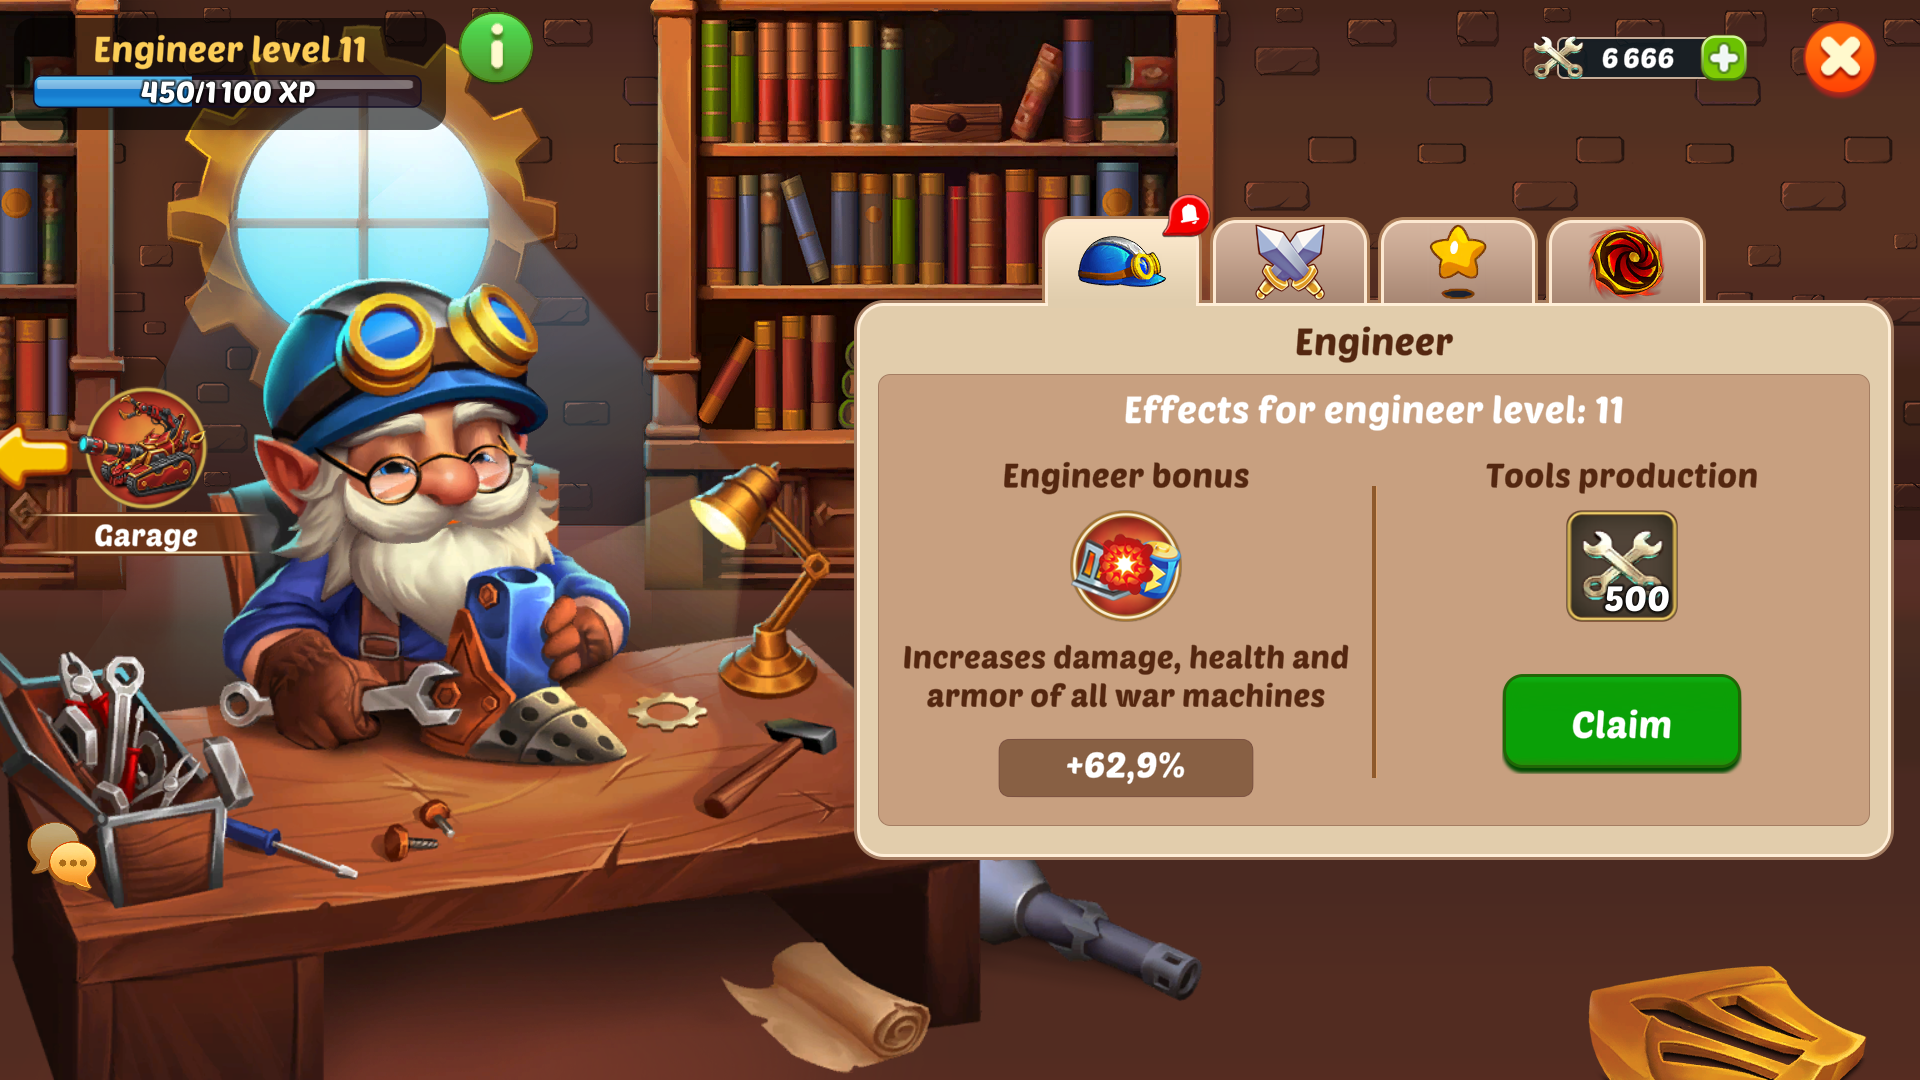
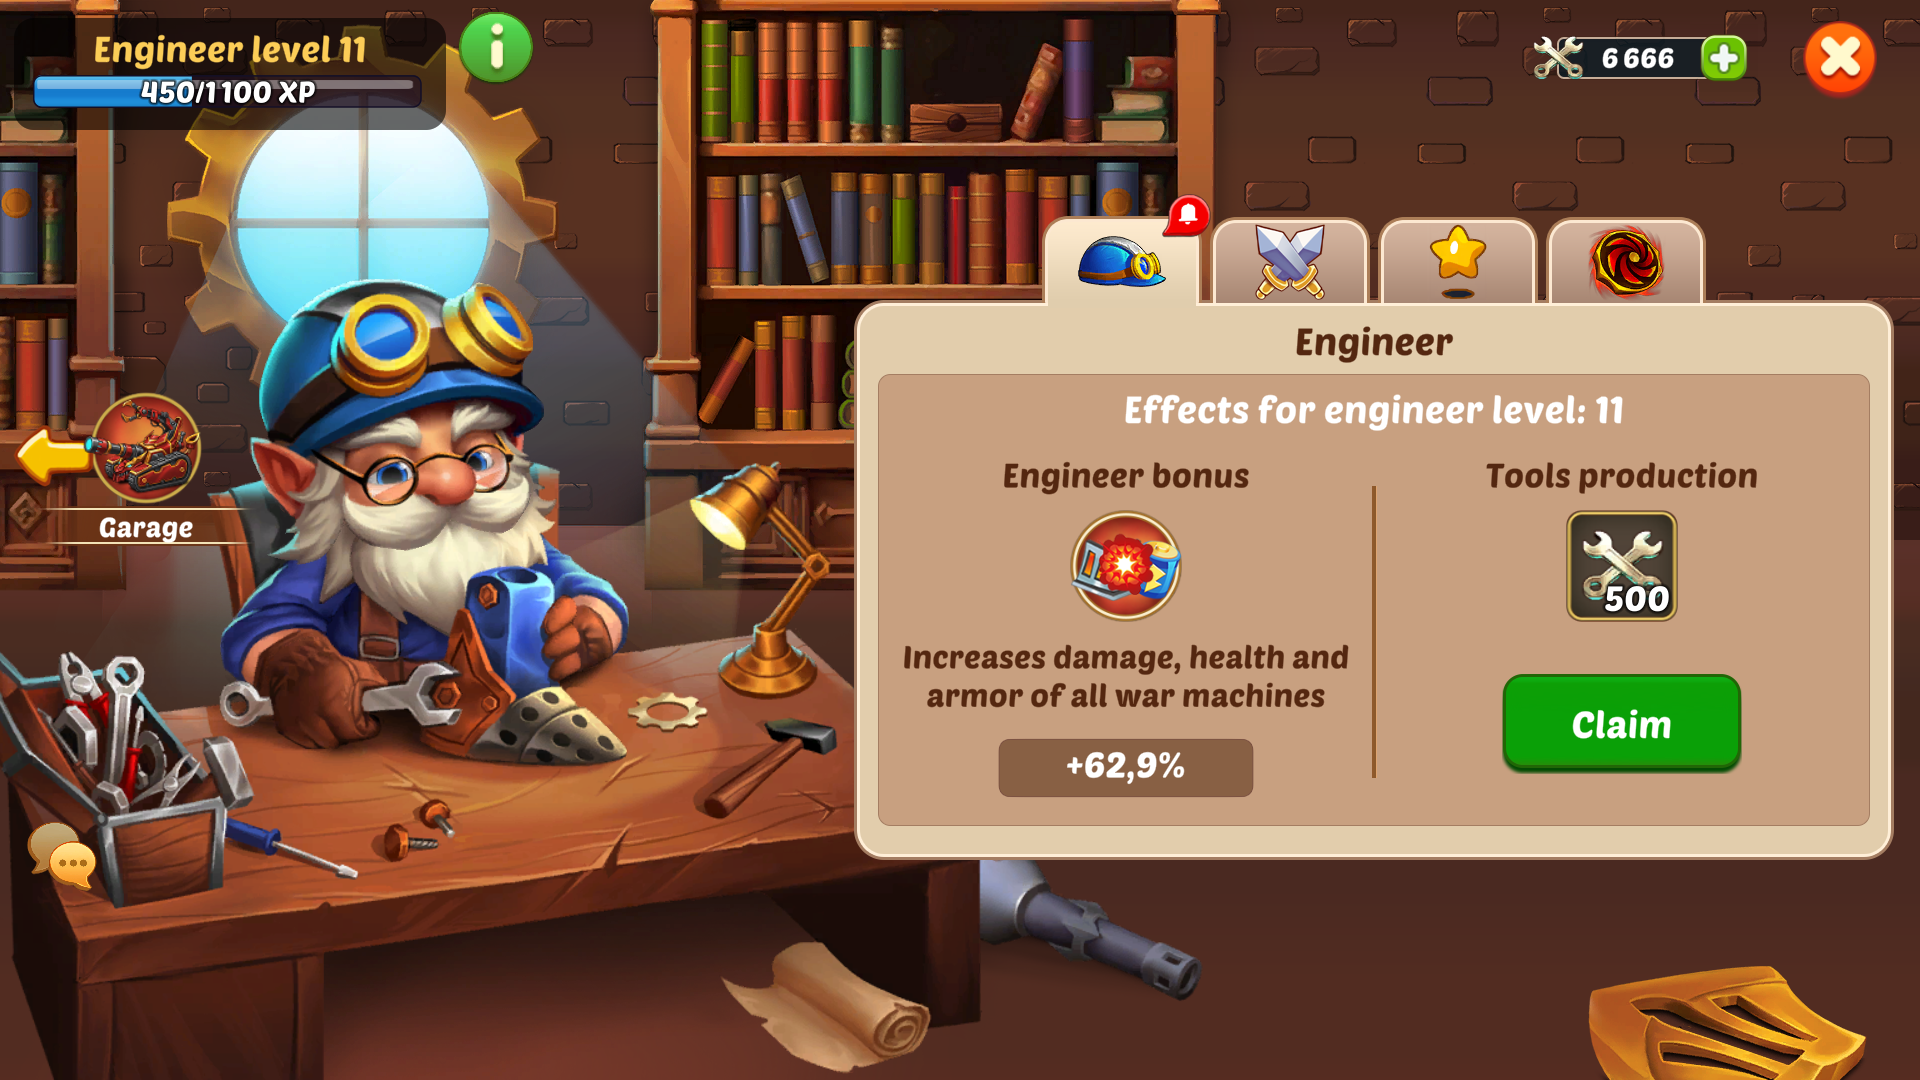
Change a plugin's value
BotMaker-Origin: safety

Changed region(s): [[0.0, 0.2444, 0.3125, 0.6111], [0.3125, 0.55, 0.3438, 0.6111], [0.125, 0.55, 0.1562, 0.5806]]

diff --git a/src/main/java/com/firestone/plugins/sdk/Screens.java b/src/main/java/com/firestone/plugins/sdk/Screens.java
@@ -12,6 +12,7 @@ import com.botmaker.sdk.api.screens.Kind;
 import com.botmaker.sdk.api.screens.Reached;
 import com.botmaker.sdk.api.screens.Variant;
 import com.botmaker.sdk.api.screens.State;
+import com.botmaker.sdk.api.geometry.Point;
 
 /**
  * Values com.botmaker.sdk keeps in step with its own windows.
@@ -21,9 +22,7 @@ import com.botmaker.sdk.api.screens.State;
 @SdkValue(SdkValue.Id.SCREEN_MAP)
 public final class Screens {
     public static final GameScreen OFFLINE_PROGRESS = GameScreen.named("Offline progress").marker(Pictures.OFFLINE_PROGRESS_TITLE)
-            .back(Input.click(new ImageTemplate("src/main/resources/images/claim_offline.png")
-                    .at(new Rect(895, 905, 130, 50)).tags(List.of(Tags.POPUPS))))
-            .popup();
+            .back(Input.click(Pictures.CLAIM_OFFLINE)).popup().at(new Point(0, 2394));
     public static final GameScreen HOME = GameScreen.named("Home").marker(Pictures.TOWN_HOME).inputs(List.of(Input.click(Pictures.TAVERN_HOME),
             Input.click(Pictures.ARENA_HOME), Input.click(Pictures.ENGINEER_HOME), Input.click(Pictures.CAMPAIGN_HOME),
             Input.click(Pictures.WAR_MACHINES_HOME), Input.click(Pictures.MAIL_HOME), Input.click(Pictures.CHAT_MAP),
@@ -35,7 +34,8 @@ public final class Screens {
             Input.click(Pictures.SCROLL_BOOT_HOME).sometimes(), Input.click(Pictures.LIBRARY_HOME).sometimes(),
             Input.click(Pictures.GUARDIANS_HOME).sometimes(),
             Input.click(Pictures.AUTO_ABILITIES_HOME).did(Did.IN_PLACE), Input.click(Pictures.AVATAR_HOME),
-            Input.click(Pictures.PREV_STAGE_HOME).did(Did.IN_PLACE), Input.click(Pictures.SETTINGS_HOME)));
+            Input.click(Pictures.PREV_STAGE_HOME).did(Did.IN_PLACE), Input.click(Pictures.SETTINGS_HOME)))
+            .at(new Point(0, 1326));
     public static final GameScreen TAVERN = GameScreen.named("Tavern").marker(Pictures.TAVERN_LUCK_TITLE).from(Way.of(Screens.HOME,Input.click(Pictures.TAVERN_HOME))).back(Input.click(Pictures.CLOSE_TOWN)).inputs(List.of(Input.click(Pictures.INFO_LUCK_TAVERN),Input.click(Pictures.ARTIFACTS_TAVERN),Input.click(Pictures.SACRED_CARDS_TAVERN).did(Did.IN_PLACE),Input.click(Pictures.SPEED_TAVERN).did(Did.IN_PLACE),Input.click(Pictures.BAG_TAVERN),Input.click(Pictures.CHAT_TAVERN),Input.click(Pictures.WHEEL_TAVERN).did(Did.IN_PLACE),Input.click(Pictures.DECK_TAVERN).did(Did.IN_PLACE),Input.click(Pictures.PLAY_TAVERN).did(Did.IN_PLACE),Input.click(Pictures.MANUAL_TAVERN).did(Did.IN_PLACE),Input.click(Pictures.MARKET_TAVERN),Input.click(Pictures.INFO_MAP),Input.click(Pictures.GEMS_PLUS_MAP).never("spends gems"),Input.click(Pictures.CARD_TAVERN).did(Did.IN_PLACE).sometimes())).notes("""
                     Town › Tavern opens a chooser: Tavern or Scarab's game (tavern_choice_town = the Tavern card).
                     Town's buildings carry a red bell badge (badge_town) when something is ready; badges nest (Tavern → Market).
@@ -48,74 +48,85 @@ public final class Screens {
                     Bag: reward table per luck level. i buttons: help. Luck bar: luck level from plays.
                     Escape from the Tavern goes straight back to Town.
                     Gamer daily quest = 10 tavern plays.\
-                    """).reached(Reached.SURVEYED);
+                    """).reached(Reached.SURVEYED).at(new Point(340,389));
     public static final GameScreen INFO_LUCK = GameScreen.named("Info luck").marker(Pictures.TOTAL_BONUSES_INFO_LUCK)
             .from(Way.of(Screens.TAVERN, Input.click(Pictures.INFO_LUCK_TAVERN)))
-            .back(Input.click(Pictures.CLOSE_INFO_LUCK));
+            .back(Input.click(Pictures.CLOSE_INFO_LUCK)).at(new Point(680, 0));
     public static final GameScreen INFO_MAP = GameScreen.named("Info map").marker(Pictures.HOW_TO_PLAY_TAVERN)
             .from(Way.of(Screens.TAVERN, Input.click(Pictures.INFO_MAP))).back(Input.click(Pictures.CLOSE_HELP_TAVERN))
-            .inputs(List.of(Input.scroll(Pictures.HELP_TEXT_TAVERN, -10).did(Did.IN_PLACE).kind(Kind.INFO)));
+            .inputs(List.of(Input.scroll(Pictures.HELP_TEXT_TAVERN, -10).did(Did.IN_PLACE).kind(Kind.INFO)))
+            .at(new Point(680, 103));
     public static final GameScreen ARTIFACTS = GameScreen.named("Artifacts").marker(Pictures.ARTIFACTS_TITLE)
             .from(Way.of(Screens.TAVERN, Input.click(Pictures.ARTIFACTS_TAVERN))).back(Input.click(Pictures.CLOSE_TOWN))
             .inputs(List.of(Input.click(Pictures.UPGRADE_ARTIFACTS), Input.click(Pictures.RARITY_ARTIFACTS),
                     Input.click(Pictures.ARTIFACT_CELL).did(Did.IN_PLACE),
-                    Input.scroll(Pictures.ARTIFACTS_GRID, -10).did(Did.IN_PLACE)));
+                    Input.scroll(Pictures.ARTIFACTS_GRID, -10).did(Did.IN_PLACE)))
+            .at(new Point(680, 206));
     public static final GameScreen UPGRADE = GameScreen.named("Upgrade").marker(Pictures.ARTIFACT_UPGRADE_TITLE)
             .from(Way.of(Screens.ARTIFACTS, Input.click(Pictures.UPGRADE_ARTIFACTS)))
             .back(Input.click(Pictures.CLOSE_ARTIFACT_UPGRADE))
-            .inputs(List.of(Input.click(Pictures.UPGRADE_ARTIFACT_CONFIRM).did(Did.IN_PLACE).kind(Kind.CHORE)));
+            .inputs(List.of(Input.click(Pictures.UPGRADE_ARTIFACT_CONFIRM).did(Did.IN_PLACE).kind(Kind.CHORE)))
+            .at(new Point(1020, 155));
     public static final GameScreen RARITY = GameScreen.named("Rarity").marker(Pictures.ARTIFACT_RARITY_TITLE)
             .from(Way.of(Screens.ARTIFACTS, Input.click(Pictures.RARITY_ARTIFACTS)))
             .back(Input.click(Pictures.CLOSE_ARTIFACT_UPGRADE))
-            .inputs(List.of(Input.click(Pictures.RARITY_ARTIFACT_CONFIRM).did(Did.IN_PLACE).kind(Kind.CHORE)));
+            .inputs(List.of(Input.click(Pictures.RARITY_ARTIFACT_CONFIRM).did(Did.IN_PLACE).kind(Kind.CHORE)))
+            .at(new Point(1020, 258));
     public static final GameScreen MARKET = GameScreen.named("Market").marker(Pictures.MARKET_TITLE_TAVERN)
             .from(Way.of(Screens.TAVERN, Input.click(Pictures.MARKET_TAVERN))).back(Input.click(Pictures.CLOSE_MARKET))
             .inputs(List.of(Input.click(Pictures.BEER_BUY_TAVERN).did(Did.IN_PLACE).kind(Kind.CHORE),
                     Input.click(Pictures.GEMS_1000_MARKET).never("spends gems"),
-                    Input.click(Pictures.GEMS_300_MARKET).never("spends gems")));
+                    Input.click(Pictures.GEMS_300_MARKET).never("spends gems")))
+            .at(new Point(680, 309));
     public static final GameScreen BAG = GameScreen.named("Bag").marker(Pictures.REWARDS_TITLE_TAVERN)
             .from(Way.of(Screens.TAVERN, Input.click(Pictures.BAG_TAVERN)))
-            .back(Input.click(Pictures.CLOSE_REWARDS_TAVERN));
+            .back(Input.click(Pictures.CLOSE_REWARDS_TAVERN)).at(new Point(680, 551));
     public static final GameScreen CHAT = GameScreen.named("Chat").marker(Pictures.TYPE_MESSAGE_CHAT)
             .from(Way.of(Screens.TAVERN, Input.click(Pictures.CHAT_TAVERN))).back(Input.click(Pictures.CLOSE_CHAT))
             .inputs(List.of(Input.click(Pictures.ROOMS_CHAT), Input.click(Pictures.WORLD_CHAT).did(Did.IN_PLACE),
-                    Input.click(Pictures.SEND_CHAT).never("posts to other players")));
+                    Input.click(Pictures.SEND_CHAT).never("posts to other players")))
+            .at(new Point(680, 793));
     public static final GameScreen ROOMS = GameScreen.named("Rooms").marker(Pictures.SELECT_ROOM_TITLE_CHAT)
             .from(Way.of(Screens.CHAT, Input.click(Pictures.ROOMS_CHAT))).back(Input.click(Pictures.CLOSE_ROOMS_CHAT))
             .inputs(List.of(Input.click(Pictures.ENGLISH_ROOM_CHAT).did(Did.IN_PLACE).kind(Kind.CHOICE),
-                    Input.click(Pictures.CONFIRM_ROOM_CHAT).did(Did.LEAVES).kind(Kind.CHOICE)));
+                    Input.click(Pictures.CONFIRM_ROOM_CHAT).did(Did.LEAVES).kind(Kind.CHOICE)))
+            .at(new Point(1020, 793));
     public static final GameScreen ARENA = GameScreen.named("Arena").marker(Pictures.ARENA_TITLE).from(Way.of(Screens.HOME, Input.click(Pictures.ARENA_HOME)))
             .back(Input.click(Pictures.ARENA_CLOSE))
             .inputs(List.of(Input.click(Pictures.ARENA_REFRESH).did(Did.IN_PLACE),
                     Input.click(Pictures.ARENA_FIGHT).kind(Kind.CHORE), Input.click(Pictures.ARENA_BATTLE_LOG),
                     Input.click(Pictures.ARENA_EDIT_SQUAD), Input.click(Pictures.INFO_MAP).kind(Kind.INFO),
-                    Input.click(Pictures.ARENA_LEADERBOARDS)));
+                    Input.click(Pictures.ARENA_LEADERBOARDS)))
+            .at(new Point(340, 1459));
     public static final GameScreen ARENA_INFO = GameScreen.named("Arena info").marker(Pictures.ARENA_RULES_TITLE)
             .from(Way.of(Screens.ARENA, Input.click(Pictures.INFO_MAP).kind(Kind.INFO)))
-            .back(Input.click(Pictures.CLOSE_ROOMS_CHAT));
+            .back(Input.click(Pictures.CLOSE_ROOMS_CHAT)).at(new Point(680, 1035));
     public static final GameScreen ARENA_LEADERBOARDS = GameScreen.named("Arena leaderboards").marker(Pictures.ARENA_LEADERBOARDS_HEADER)
             .from(Way.of(Screens.ARENA, Input.click(Pictures.ARENA_LEADERBOARDS)))
-            .back(Input.click(Pictures.ARENA_LEADERBOARDS_CLOSE));
+            .back(Input.click(Pictures.ARENA_LEADERBOARDS_CLOSE)).at(new Point(680, 1277));
     public static final GameScreen ARENA_BATTLE_LOG = GameScreen.named("Arena battle log").marker(Pictures.BATTLE_LOG_TITLE)
             .from(Way.of(Screens.ARENA, Input.click(Pictures.ARENA_BATTLE_LOG)))
             .back(Input.click(Pictures.BATTLE_LOG_CLOSE))
             .inputs(List.of(Input.click(Pictures.BATTLE_LOG_INSPECT).kind(Kind.INFO),
-                    Input.click(Pictures.BATTLE_LOG_REPLAY).kind(Kind.INFO)));
+                    Input.click(Pictures.BATTLE_LOG_REPLAY).kind(Kind.INFO)))
+            .at(new Point(680, 1519));
     public static final GameScreen BATTLE_DETAILS = GameScreen.named("Battle details").marker(Pictures.BATTLE_DETAILS_VS)
             .from(Way.of(Screens.ARENA_BATTLE_LOG, Input.click(Pictures.BATTLE_LOG_INSPECT).kind(Kind.INFO)))
             .back(Input.click(Pictures.CLOSE_ROOMS_CHAT))
             .inputs(List.of(Input.click(Pictures.BATTLE_DETAILS_DEALT).did(Did.IN_PLACE),
                     Input.click(Pictures.BATTLE_DETAILS_TAKEN).did(Did.IN_PLACE),
-                    Input.click(Pictures.BATTLE_DETAILS_HEALING).did(Did.IN_PLACE)));
+                    Input.click(Pictures.BATTLE_DETAILS_HEALING).did(Did.IN_PLACE)))
+            .at(new Point(1020, 1398));
     public static final GameScreen ARENA_REPLAY = GameScreen.named("Arena replay").marker(Pictures.ARENA_ROUND)
             .from(Way.of(Screens.ARENA_BATTLE_LOG, Input.click(Pictures.BATTLE_LOG_REPLAY).kind(Kind.INFO)))
             .alsoFrom(List.of(Way.of(Screens.ARENA, Input.click(Pictures.ARENA_FIGHT).kind(Kind.CHORE))))
             .back(Input.click(Pictures.ARENA_FIGHT_CLOSE))
-            .inputs(List.of(Input.click(Pictures.ARENA_SPEED).did(Did.LEAVES)));
+            .inputs(List.of(Input.click(Pictures.ARENA_SPEED).did(Did.LEAVES))).at(new Point(1020, 1640));
     public static final GameScreen ARENA_SQUAD = GameScreen.named("Arena squad").marker(Pictures.CHOOSE_WAR_MACHINES_TITLE)
             .from(Way.of(Screens.ARENA, Input.click(Pictures.ARENA_EDIT_SQUAD))).back(Input.click(Pictures.CLOSE_X))
             .inputs(List.of(Input.click(Pictures.SQUAD_SAVE_CHANGES).did(Did.IN_PLACE),
-                    Input.click(Pictures.SQUAD_EDIT_HEROES)));
+                    Input.click(Pictures.SQUAD_EDIT_HEROES)))
+            .at(new Point(1352, 2044));
     public static final GameScreen SQUAD_HEROES = GameScreen.named("Squad heroes").marker(Pictures.SELECT_CREW_TITLE)
             .from(Way.of(Screens.ARENA_SQUAD, Input.click(Pictures.SQUAD_EDIT_HEROES)))
             .back(Input.click(Pictures.CLOSE_X))
@@ -125,19 +136,21 @@ public final class Screens {
                     Input.click(Pictures.CREW_ORDER_DAMAGE).did(Did.IN_PLACE),
                     Input.click(Pictures.CREW_ORDER_HEALTH).did(Did.IN_PLACE),
                     Input.click(Pictures.CREW_ORDER_ARMOR).did(Did.IN_PLACE),
-                    Input.click(Pictures.CREW_INFO).kind(Kind.INFO)));
+                    Input.click(Pictures.CREW_INFO).kind(Kind.INFO)))
+            .at(new Point(1692, 2044));
     public static final GameScreen CREW_INFO = GameScreen.named("Crew info").marker(Pictures.HERO_BONUSES_TITLE)
             .from(Way.of(Screens.SQUAD_HEROES, Input.click(Pictures.CREW_INFO).kind(Kind.INFO)))
-            .back(Input.click(Pictures.CREW_INFO_CLOSE));
+            .back(Input.click(Pictures.CREW_INFO_CLOSE)).at(new Point(2032, 2044));
     public static final GameScreen ENGINEER = GameScreen.named("Engineer").marker(Pictures.ENGINEER_NAME)
             .from(Way.of(Screens.HOME, Input.click(Pictures.ENGINEER_HOME)))
             .inputs(List.of(Input.click(Pictures.INFO_ENGINEER).kind(Kind.INFO),
                     Input.click(Pictures.ENGINEER_TAB_ENGINEER), Input.click(Pictures.BATTLES_TAB_ENGINEER),
                     Input.click(Pictures.STAR_TAB_ENGINEER), Input.click(Pictures.SWIRL_TAB_ENGINEER),
-                    Input.click(Pictures.CLAIM_ENGINEER), Input.click(Pictures.GARAGE_ENGINEER)));
+                    Input.click(Pictures.CLAIM_ENGINEER), Input.click(Pictures.GARAGE_ENGINEER)))
+            .at(new Point(340, 2124));
     public static final GameScreen ENGINEER_INFO = GameScreen.named("Engineer info").marker(Pictures.ENGINEER_INFO_TITLE)
             .from(Way.of(Screens.ENGINEER, Input.click(Pictures.INFO_ENGINEER)))
-            .back(Input.click(Pictures.CLOSE_ENGINEER_INFO));
+            .back(Input.click(Pictures.CLOSE_ENGINEER_INFO)).at(new Point(1352, 2286));
     private Screens() {
     }
 }
